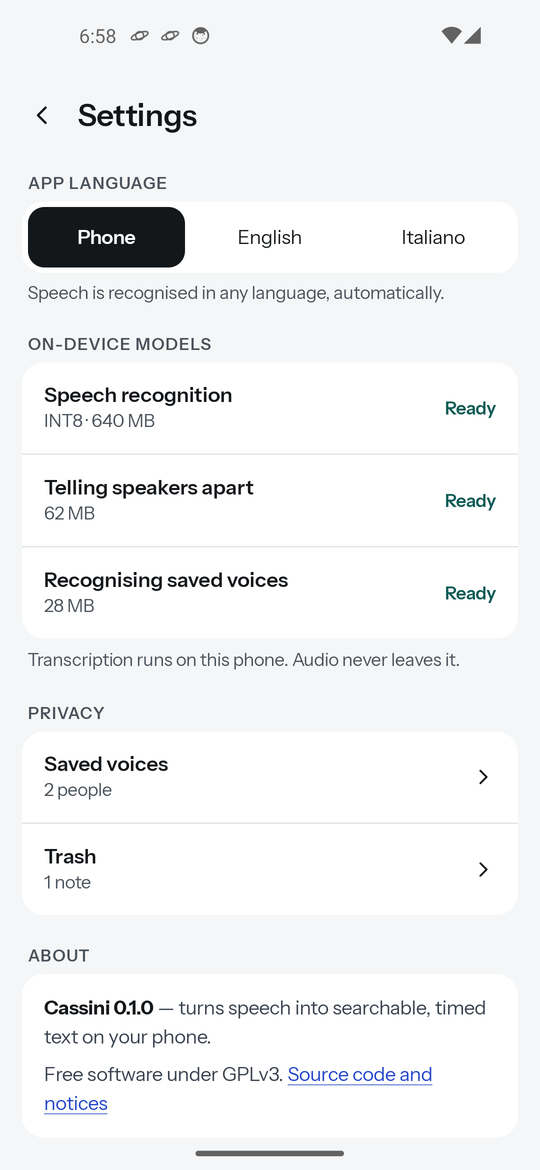
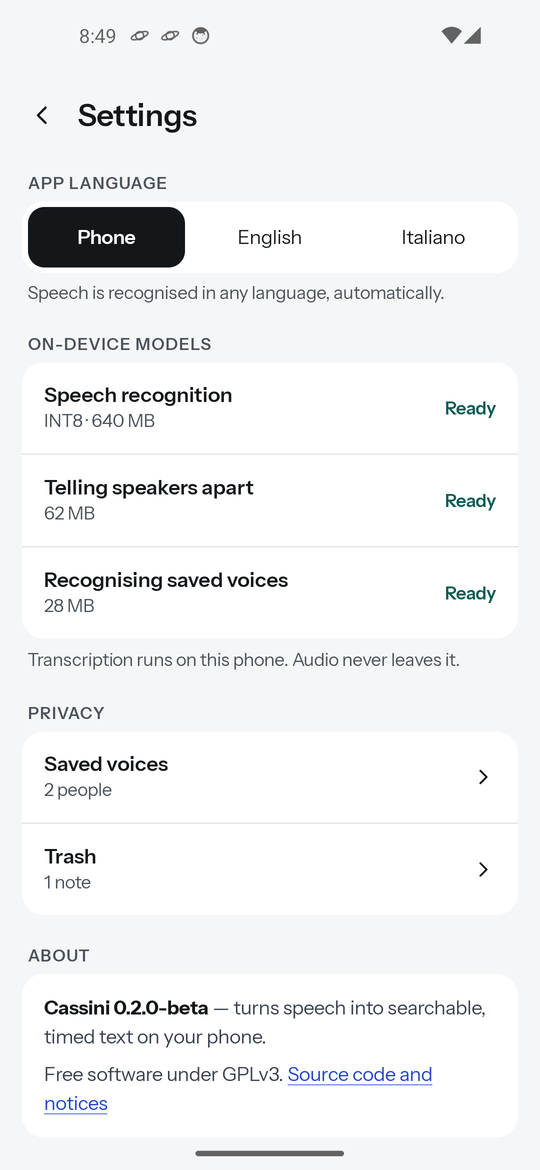
Take the Settings screenshots again for 0.2.0-beta

Changed region(s): [[0.0889, 0.8308, 0.5037, 0.8923], [0.5333, 0.8308, 0.8889, 0.8923], [0.1778, 0.0, 0.2074, 0.0615]]

diff --git a/docs/development.md b/docs/development.md
@@ -318,7 +318,7 @@ The screenshots in the README come from this walk. To make them again, use these
 5. Save them as `docs/screenshots/<variant>/01-library.png` to `05-settings.png`, in the order of step 2.
 6. Save the light screenshots also as `metadata/en-US/images/phoneScreenshots/1.png` to `5.png`, in the same order.
 
-The Settings screenshot (`05-settings.png` and the store image `5.png`) shows the version number of the app in the About card. The committed screenshots show "Cassini 0.1.0", because `app/build.gradle.kts` has `versionName = "0.1.0"`. After the owner changes `versionName` for a release, make this screenshot again ([`release.md`](release.md#make-a-release)).
+The Settings screenshot (`05-settings.png` and the store image `5.png`) shows the version number of the app in the About card. The committed screenshots show "Cassini 0.2.0-beta", because `app/build.gradle.kts` has `versionName = "0.2.0-beta"`. After the owner changes `versionName` for a release, make this screenshot again ([`release.md`](release.md#make-a-release)).
 
 ### note-opening-timing.sh
 
